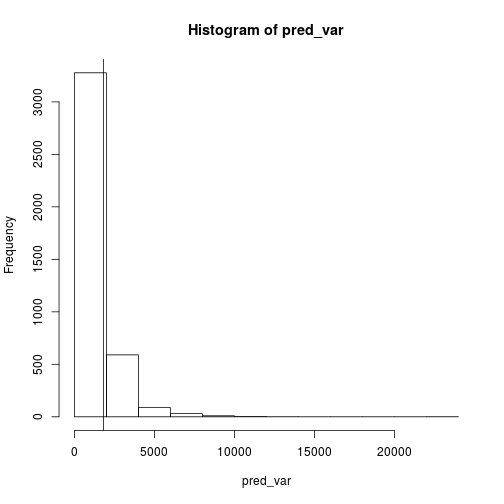
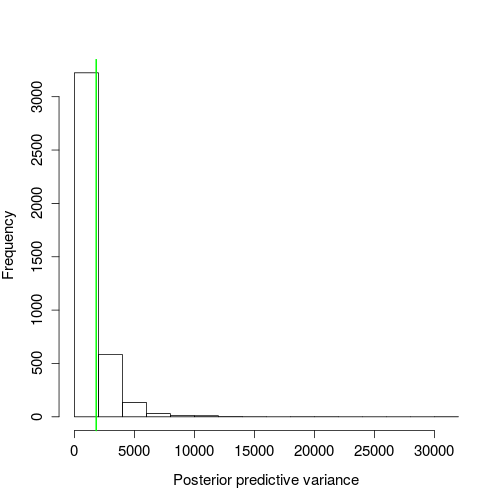
plot improvements

diff --git a/_site/Prius/index.html b/_site/Prius/index.html
@@ -95,7 +95,8 @@
   </span><span class="n">stat_bin</span><span class="p">(</span><span class="n">binwidth</span><span class="w"> </span><span class="o">=</span><span class="w"> </span><span class="m">12</span><span class="p">,</span><span class="w"> </span><span class="n">alpha</span><span class="w"> </span><span class="o">=</span><span class="w"> </span><span class="m">0.5</span><span class="p">,</span><span class="w">
                  </span><span class="n">fill</span><span class="w"> </span><span class="o">=</span><span class="w"> </span><span class="s2">"green"</span><span class="p">,</span><span class="w"> </span><span class="n">colour</span><span class="w"> </span><span class="o">=</span><span class="w"> </span><span class="s2">"black"</span><span class="p">)</span><span class="w"> </span><span class="o">+</span><span class="w">
   </span><span class="n">xlab</span><span class="p">(</span><span class="s2">"Seconds between Prius sightings (Boulder, CO)"</span><span class="p">)</span><span class="w"> </span><span class="o">+</span><span class="w">
-  </span><span class="n">theme_minimal</span><span class="p">()</span><span class="w">
+  </span><span class="n">theme_minimal</span><span class="p">()</span><span class="w"> </span><span class="o">+</span><span class="w">
+  </span><span class="n">theme</span><span class="p">(</span><span class="n">text</span><span class="w"> </span><span class="o">=</span><span class="w"> </span><span class="n">element_text</span><span class="p">(</span><span class="n">size</span><span class="o">=</span><span class="m">20</span><span class="p">))</span><span class="w">
 </span></code></pre>
 </div>
 
@@ -137,7 +138,10 @@
 <p>Here’s what this prior looks like.</p>
 
 <div class="language-r highlighter-rouge"><pre class="highlight"><code><span class="n">xseq</span><span class="w"> </span><span class="o">&lt;-</span><span class="w"> </span><span class="n">seq</span><span class="p">(</span><span class="m">0</span><span class="p">,</span><span class="w"> </span><span class="m">5</span><span class="p">,</span><span class="w"> </span><span class="n">length.out</span><span class="w"> </span><span class="o">=</span><span class="w"> </span><span class="m">100</span><span class="p">)</span><span class="w">
-</span><span class="n">plot</span><span class="p">(</span><span class="n">xseq</span><span class="p">,</span><span class="w"> </span><span class="n">dgamma</span><span class="p">(</span><span class="n">xseq</span><span class="p">,</span><span class="w"> </span><span class="n">shape</span><span class="w"> </span><span class="o">=</span><span class="w"> </span><span class="m">1</span><span class="p">,</span><span class="w"> </span><span class="n">scale</span><span class="w"> </span><span class="o">=</span><span class="w"> </span><span class="m">1</span><span class="p">),</span><span class="w"> </span><span class="n">type</span><span class="w"> </span><span class="o">=</span><span class="w"> </span><span class="s2">"l"</span><span class="p">,</span><span class="w"> </span><span class="n">lwd</span><span class="w"> </span><span class="o">=</span><span class="w"> </span><span class="m">2</span><span class="p">)</span><span class="w">
+</span><span class="n">plot</span><span class="p">(</span><span class="n">xseq</span><span class="p">,</span><span class="w"> </span><span class="n">dgamma</span><span class="p">(</span><span class="n">xseq</span><span class="p">,</span><span class="w"> </span><span class="n">shape</span><span class="w"> </span><span class="o">=</span><span class="w"> </span><span class="m">1</span><span class="p">,</span><span class="w"> </span><span class="n">scale</span><span class="w"> </span><span class="o">=</span><span class="w"> </span><span class="m">1</span><span class="p">),</span><span class="w"> </span><span class="n">type</span><span class="w"> </span><span class="o">=</span><span class="w"> </span><span class="s2">"l"</span><span class="p">,</span><span class="w"> </span><span class="n">lwd</span><span class="w"> </span><span class="o">=</span><span class="w"> </span><span class="m">2</span><span class="p">,</span><span class="w">
+     </span><span class="n">xlab</span><span class="w"> </span><span class="o">=</span><span class="w"> </span><span class="s2">"Rate parameter"</span><span class="p">,</span><span class="w">
+     </span><span class="n">ylab</span><span class="w"> </span><span class="o">=</span><span class="w"> </span><span class="s2">"Density"</span><span class="p">,</span><span class="w">
+     </span><span class="n">cex.axis</span><span class="w"> </span><span class="o">=</span><span class="w"> </span><span class="m">1.25</span><span class="p">,</span><span class="w"> </span><span class="n">cex.lab</span><span class="w"> </span><span class="o">=</span><span class="w"> </span><span class="m">1.25</span><span class="p">)</span><span class="w">
 </span></code></pre>
 </div>
 
@@ -166,10 +170,10 @@
 ## post-warmup draws per chain=1000, total post-warmup draws=4000.
 ## 
 ##        mean se_mean   sd   2.5%    25%    50%    75%  97.5% n_eff Rhat
-## beta   0.03    0.00 0.01   0.02   0.02   0.03   0.03   0.04  1636    1
-## lp__ -82.17    0.02 0.71 -84.30 -82.37 -81.90 -81.70 -81.65  1784    1
+## beta   0.03    0.00 0.01   0.02   0.02   0.03   0.03   0.04  1534    1
+## lp__ -82.17    0.02 0.76 -84.27 -82.34 -81.87 -81.70 -81.65  1669    1
 ## 
-## Samples were drawn using NUTS(diag_e) at Thu Aug 31 00:49:41 2017.
+## Samples were drawn using NUTS(diag_e) at Thu Aug 31 01:08:20 2017.
 ## For each parameter, n_eff is a crude measure of effective sample size,
 ## and Rhat is the potential scale reduction factor on split chains (at 
 ## convergence, Rhat=1).
@@ -193,7 +197,9 @@
 </span><span class="n">exp_post</span><span class="w"> </span><span class="o">%&gt;%</span><span class="w"> </span><span class="n">data.frame</span><span class="p">()</span><span class="w"> </span><span class="o">%&gt;%</span><span class="w"> 
   </span><span class="n">ggplot</span><span class="p">(</span><span class="n">aes</span><span class="p">(</span><span class="n">x</span><span class="w"> </span><span class="o">=</span><span class="w"> </span><span class="m">1</span><span class="o">/</span><span class="n">beta</span><span class="p">))</span><span class="o">+</span><span class="w">
   </span><span class="n">geom_density</span><span class="p">(</span><span class="n">fill</span><span class="w"> </span><span class="o">=</span><span class="w"> </span><span class="s2">"green"</span><span class="p">,</span><span class="w"> </span><span class="n">alpha</span><span class="w"> </span><span class="o">=</span><span class="w"> </span><span class="m">0.5</span><span class="p">)</span><span class="w"> </span><span class="o">+</span><span class="w">
-  </span><span class="n">theme_minimal</span><span class="p">()</span><span class="w">
+  </span><span class="n">theme_minimal</span><span class="p">()</span><span class="w"> </span><span class="o">+</span><span class="w">
+  </span><span class="n">xlab</span><span class="p">(</span><span class="s2">"Expected wait time"</span><span class="p">)</span><span class="w"> </span><span class="o">+</span><span class="w">
+  </span><span class="n">theme</span><span class="p">(</span><span class="n">text</span><span class="w"> </span><span class="o">=</span><span class="w"> </span><span class="n">element_text</span><span class="p">(</span><span class="n">size</span><span class="o">=</span><span class="m">20</span><span class="p">))</span><span class="w">
 </span></code></pre>
 </div>
 
@@ -207,11 +213,11 @@
 </div>
 
 <div class="highlighter-rouge"><pre class="highlight"><code>##     2.5%    97.5% 
-## 22.52135 58.07670
+## 22.34643 58.51085
 </code></pre>
 </div>
 
-<p>So there’s a 95% chance the expected wait time between Prius spottings is between 23 and 58 seconds.</p>
+<p>So there’s a 95% chance the expected wait time between Prius spottings is between 22 and 59 seconds.</p>
 
 <p>We can also easily see the probability that the expected wait time is less than, say, one minute.</p>
 
@@ -219,7 +225,7 @@
 </span></code></pre>
 </div>
 
-<div class="highlighter-rouge"><pre class="highlight"><code>## [1] 0.9815
+<div class="highlighter-rouge"><pre class="highlight"><code>## [1] 0.98075
 </code></pre>
 </div>
 
@@ -227,8 +233,10 @@
 
 <div class="language-r highlighter-rouge"><pre class="highlight"><code><span class="n">post_pred</span><span class="w"> </span><span class="o">&lt;-</span><span class="w"> </span><span class="n">exp_post</span><span class="o">$</span><span class="n">beta</span><span class="w"> </span><span class="o">%&gt;%</span><span class="w"> </span><span class="n">map</span><span class="p">(</span><span class="o">~</span><span class="n">rexp</span><span class="p">(</span><span class="n">n_obs</span><span class="p">,</span><span class="w"> </span><span class="n">rate</span><span class="w"> </span><span class="o">=</span><span class="w"> </span><span class="n">.x</span><span class="p">))</span><span class="w">
 </span><span class="n">pred_var</span><span class="w"> </span><span class="o">&lt;-</span><span class="w"> </span><span class="n">post_pred</span><span class="w"> </span><span class="o">%&gt;%</span><span class="w"> </span><span class="n">map_dbl</span><span class="p">(</span><span class="o">~</span><span class="n">var</span><span class="p">(</span><span class="n">.x</span><span class="p">))</span><span class="w">
-</span><span class="n">hist</span><span class="p">(</span><span class="n">pred_var</span><span class="p">)</span><span class="w">
-</span><span class="n">abline</span><span class="p">(</span><span class="n">v</span><span class="w"> </span><span class="o">=</span><span class="w"> </span><span class="n">var</span><span class="p">(</span><span class="n">wt_times</span><span class="o">$</span><span class="n">wait</span><span class="p">))</span><span class="w">
+</span><span class="n">hist</span><span class="p">(</span><span class="n">pred_var</span><span class="p">,</span><span class="n">main</span><span class="w"> </span><span class="o">=</span><span class="w"> </span><span class="s2">""</span><span class="p">,</span><span class="w">
+     </span><span class="n">xlab</span><span class="w"> </span><span class="o">=</span><span class="w"> </span><span class="s2">"Posterior predictive variance"</span><span class="p">,</span><span class="w">
+     </span><span class="n">cex.axis</span><span class="w"> </span><span class="o">=</span><span class="w"> </span><span class="m">1.25</span><span class="p">,</span><span class="w"> </span><span class="n">cex.lab</span><span class="w"> </span><span class="o">=</span><span class="w"> </span><span class="m">1.25</span><span class="p">)</span><span class="w">
+</span><span class="n">abline</span><span class="p">(</span><span class="n">v</span><span class="w"> </span><span class="o">=</span><span class="w"> </span><span class="n">var</span><span class="p">(</span><span class="n">wt_times</span><span class="o">$</span><span class="n">wait</span><span class="p">),</span><span class="w"> </span><span class="n">lwd</span><span class="w"> </span><span class="o">=</span><span class="w"> </span><span class="m">2</span><span class="p">,</span><span class="w"> </span><span class="n">col</span><span class="w"> </span><span class="o">=</span><span class="w"> </span><span class="s2">"green"</span><span class="p">)</span><span class="w">
 </span></code></pre>
 </div>
 
@@ -238,11 +246,11 @@
 </span></code></pre>
 </div>
 
-<div class="highlighter-rouge"><pre class="highlight"><code>## [1] 0.214
+<div class="highlighter-rouge"><pre class="highlight"><code>## [1] 0.225
 </code></pre>
 </div>
 
-<p>There’s a ~0.21% probability of simulated data having variation greater than the observed. This isn’t too far off. The nearer to 50%, the more consistent the simulated data and observed. The exponential distribution model as-is seems fairly adequate.</p>
+<p>There’s a ~0.22% probability of simulated data having variation greater than the observed. This isn’t too far off. The nearer to 50%, the more consistent the simulated data and observed. The exponential distribution model as-is seems fairly adequate.</p>
 
 <p>We can also visually assess the simulated and observed distribution shapes by constructing quantile-quantile plots. I find it a bit easier to see departures by looking at the observed quantiles versus the difference in observed and simulated quantiles:</p>
 
@@ -258,19 +266,48 @@
 </span><span class="n">pred_quants</span><span class="w"> </span><span class="o">%&gt;%</span><span class="w"> </span><span class="n">ggplot</span><span class="p">(</span><span class="n">aes</span><span class="p">(</span><span class="n">x</span><span class="w"> </span><span class="o">=</span><span class="w"> </span><span class="n">obs_quants</span><span class="p">,</span><span class="w"> </span><span class="n">y</span><span class="w"> </span><span class="o">=</span><span class="w"> </span><span class="n">quants</span><span class="w"> </span><span class="o">-</span><span class="w"> </span><span class="n">obs_quants</span><span class="p">,</span><span class="w"> </span><span class="n">group</span><span class="w"> </span><span class="o">=</span><span class="w"> </span><span class="n">draw</span><span class="p">))</span><span class="o">+</span><span class="w">
   </span><span class="n">geom_line</span><span class="p">(</span><span class="n">alpha</span><span class="w"> </span><span class="o">=</span><span class="w"> </span><span class="m">0.05</span><span class="p">,</span><span class="w"> </span><span class="n">colour</span><span class="w"> </span><span class="o">=</span><span class="w"> </span><span class="s2">"green"</span><span class="p">)</span><span class="w"> </span><span class="o">+</span><span class="w">
   </span><span class="n">geom_hline</span><span class="p">(</span><span class="n">yintercept</span><span class="w"> </span><span class="o">=</span><span class="w"> </span><span class="m">0</span><span class="p">)</span><span class="w"> </span><span class="o">+</span><span class="w">
-  </span><span class="n">theme_minimal</span><span class="p">()</span><span class="w">
+  </span><span class="n">theme_minimal</span><span class="p">()</span><span class="w"> </span><span class="o">+</span><span class="w">
+  </span><span class="n">ylab</span><span class="p">(</span><span class="s2">"Simulated - observed quantiles"</span><span class="p">)</span><span class="w"> </span><span class="o">+</span><span class="w">
+  </span><span class="n">xlab</span><span class="p">(</span><span class="s2">"Observed quantiles"</span><span class="p">)</span><span class="w">
 </span></code></pre>
 </div>
 
 <p><img src="/figure/source/2017-08-30-Prius/unnamed-chunk-13-1.png" title="plot of chunk unnamed-chunk-13" alt="plot of chunk unnamed-chunk-13" style="display: block; margin: auto;" /></p>
+
+<div class="language-r highlighter-rouge"><pre class="highlight"><code><span class="w">  </span><span class="n">theme</span><span class="p">(</span><span class="n">text</span><span class="w"> </span><span class="o">=</span><span class="w"> </span><span class="n">element_text</span><span class="p">(</span><span class="n">size</span><span class="o">=</span><span class="m">20</span><span class="p">))</span><span class="w">
+</span></code></pre>
+</div>
+
+<div class="highlighter-rouge"><pre class="highlight"><code>## List of 1
+##  $ text:List of 11
+##   ..$ family       : NULL
+##   ..$ face         : NULL
+##   ..$ colour       : NULL
+##   ..$ size         : num 20
+##   ..$ hjust        : NULL
+##   ..$ vjust        : NULL
+##   ..$ angle        : NULL
+##   ..$ lineheight   : NULL
+##   ..$ margin       : NULL
+##   ..$ debug        : NULL
+##   ..$ inherit.blank: logi FALSE
+##   ..- attr(*, "class")= chr [1:2] "element_text" "element"
+##  - attr(*, "class")= chr [1:2] "theme" "gg"
+##  - attr(*, "complete")= logi FALSE
+##  - attr(*, "validate")= logi TRUE
+</code></pre>
+</div>
 
 <p>Ideally, the shape should be relatively flat and centered on zero. The high end gets a little squirrelly, but overall this looks pretty good. The replicated draws to encapsulate zero. We confirm the exponential model isn’t too bad.</p>
 
 <p>We can also get some idea of the max wait time (conditional of the data of course).</p>
 
 <div class="language-r highlighter-rouge"><pre class="highlight"><code><span class="n">pred_max</span><span class="w"> </span><span class="o">&lt;-</span><span class="w"> </span><span class="n">post_pred</span><span class="w"> </span><span class="o">%&gt;%</span><span class="w"> </span><span class="n">map_dbl</span><span class="p">(</span><span class="o">~</span><span class="nf">max</span><span class="p">(</span><span class="n">.x</span><span class="p">))</span><span class="w">
-</span><span class="n">hist</span><span class="p">(</span><span class="n">pred_max</span><span class="p">)</span><span class="w">
-</span><span class="n">abline</span><span class="p">(</span><span class="n">v</span><span class="w"> </span><span class="o">=</span><span class="w"> </span><span class="nf">max</span><span class="p">(</span><span class="n">wt_times</span><span class="o">$</span><span class="n">wait</span><span class="p">))</span><span class="w">
+</span><span class="n">hist</span><span class="p">(</span><span class="n">pred_max</span><span class="p">,</span><span class="w"> 
+     </span><span class="n">main</span><span class="w"> </span><span class="o">=</span><span class="w"> </span><span class="s2">""</span><span class="p">,</span><span class="w">
+     </span><span class="n">xlab</span><span class="w"> </span><span class="o">=</span><span class="w"> </span><span class="s2">"Posterior predictive maximum waits"</span><span class="p">,</span><span class="w">
+     </span><span class="n">cex.axis</span><span class="w"> </span><span class="o">=</span><span class="w"> </span><span class="m">1.25</span><span class="p">,</span><span class="w"> </span><span class="n">cex.lab</span><span class="w"> </span><span class="o">=</span><span class="w"> </span><span class="m">1.25</span><span class="p">)</span><span class="w">
+</span><span class="n">abline</span><span class="p">(</span><span class="n">v</span><span class="w"> </span><span class="o">=</span><span class="w"> </span><span class="nf">max</span><span class="p">(</span><span class="n">wt_times</span><span class="o">$</span><span class="n">wait</span><span class="p">),</span><span class="w"> </span><span class="n">lwd</span><span class="w"> </span><span class="o">=</span><span class="w"> </span><span class="m">2</span><span class="p">,</span><span class="w"> </span><span class="n">col</span><span class="w"> </span><span class="o">=</span><span class="w"> </span><span class="s2">"green"</span><span class="p">)</span><span class="w">
 </span></code></pre>
 </div>
 
@@ -280,8 +317,8 @@
 </span></code></pre>
 </div>
 
-<div class="highlighter-rouge"><pre class="highlight"><code>##      2.5%     97.5% 
-## 0.8201933 4.3392904
+<div class="highlighter-rouge"><pre class="highlight"><code>##     2.5%    97.5% 
+## 0.841402 4.567670
 </code></pre>
 </div>
 
@@ -309,12 +346,15 @@ Let’s see how the approximate confidence interval for the expected wait time f
 </div>
 
 <div class="highlighter-rouge"><pre class="highlight"><code>##     2.5%    97.5% 
-## 17.76471 56.88235
+## 17.64706 57.29412
 </code></pre>
 </div>
 
-<div class="language-r highlighter-rouge"><pre class="highlight"><code><span class="n">qqplot</span><span class="p">(</span><span class="n">boots</span><span class="p">,</span><span class="m">1</span><span class="o">/</span><span class="n">exp_post</span><span class="o">$</span><span class="n">beta</span><span class="p">)</span><span class="w">
-</span><span class="n">abline</span><span class="p">(</span><span class="m">0</span><span class="p">,</span><span class="m">1</span><span class="p">)</span><span class="w">
+<div class="language-r highlighter-rouge"><pre class="highlight"><code><span class="n">qqplot</span><span class="p">(</span><span class="n">boots</span><span class="p">,</span><span class="m">1</span><span class="o">/</span><span class="n">exp_post</span><span class="o">$</span><span class="n">beta</span><span class="p">,</span><span class="w"> 
+       </span><span class="n">xlab</span><span class="w"> </span><span class="o">=</span><span class="w"> </span><span class="s2">"Bootstrap quantiles"</span><span class="p">,</span><span class="w">
+       </span><span class="n">ylab</span><span class="w"> </span><span class="o">=</span><span class="w"> </span><span class="s2">"Bayesian quantiles"</span><span class="p">,</span><span class="w"> 
+       </span><span class="n">cex.axis</span><span class="w"> </span><span class="o">=</span><span class="w"> </span><span class="m">1.25</span><span class="p">,</span><span class="w"> </span><span class="n">cex.lab</span><span class="w"> </span><span class="o">=</span><span class="w"> </span><span class="m">1.25</span><span class="p">)</span><span class="w">
+</span><span class="n">abline</span><span class="p">(</span><span class="m">0</span><span class="p">,</span><span class="m">1</span><span class="p">,</span><span class="w"> </span><span class="n">col</span><span class="w"> </span><span class="o">=</span><span class="w"> </span><span class="s2">"green"</span><span class="p">,</span><span class="w"> </span><span class="n">lwd</span><span class="w"> </span><span class="o">=</span><span class="w"> </span><span class="m">2</span><span class="w"> </span><span class="p">)</span><span class="w">
 </span></code></pre>
 </div>
 

diff --git a/_posts/2017-08-30-Prius.md b/_posts/2017-08-30-Prius.md
@@ -49,7 +49,8 @@ wt_times %>% ggplot(aes(x = wait)) +
   stat_bin(binwidth = 12, alpha = 0.5,
                  fill = "green", colour = "black") +
   xlab("Seconds between Prius sightings (Boulder, CO)") +
-  theme_minimal()
+  theme_minimal() +
+  theme(text = element_text(size=20))
 ```
 
 <img src="/figure/source/2017-08-30-Prius/unnamed-chunk-4-1.png" title="plot of chunk unnamed-chunk-4" alt="plot of chunk unnamed-chunk-4" style="display: block; margin: auto;" />
@@ -97,7 +98,10 @@ Here's what this prior looks like.
 
 ```r
 xseq <- seq(0, 5, length.out = 100)
-plot(xseq, dgamma(xseq, shape = 1, scale = 1), type = "l", lwd = 2)
+plot(xseq, dgamma(xseq, shape = 1, scale = 1), type = "l", lwd = 2,
+     xlab = "Rate parameter",
+     ylab = "Density",
+     cex.axis = 1.25, cex.lab = 1.25)
 ```
 
 <img src="/figure/source/2017-08-30-Prius/unnamed-chunk-7-1.png" title="plot of chunk unnamed-chunk-7" alt="plot of chunk unnamed-chunk-7" style="display: block; margin: auto;" />
@@ -128,10 +132,10 @@ print(stan_fit)
 ## post-warmup draws per chain=1000, total post-warmup draws=4000.
 ## 
 ##        mean se_mean   sd   2.5%    25%    50%    75%  97.5% n_eff Rhat
-## beta   0.03    0.00 0.01   0.02   0.02   0.03   0.03   0.04  1636    1
-## lp__ -82.17    0.02 0.71 -84.30 -82.37 -81.90 -81.70 -81.65  1784    1
+## beta   0.03    0.00 0.01   0.02   0.02   0.03   0.03   0.04  1534    1
+## lp__ -82.17    0.02 0.76 -84.27 -82.34 -81.87 -81.70 -81.65  1669    1
 ## 
-## Samples were drawn using NUTS(diag_e) at Thu Aug 31 00:49:41 2017.
+## Samples were drawn using NUTS(diag_e) at Thu Aug 31 01:08:20 2017.
 ## For each parameter, n_eff is a crude measure of effective sample size,
 ## and Rhat is the potential scale reduction factor on split chains (at 
 ## convergence, Rhat=1).
@@ -156,7 +160,9 @@ exp_post <- extract(stan_fit)
 exp_post %>% data.frame() %>% 
   ggplot(aes(x = 1/beta))+
   geom_density(fill = "green", alpha = 0.5) +
-  theme_minimal()
+  theme_minimal() +
+  xlab("Expected wait time") +
+  theme(text = element_text(size=20))
 ```
 
 <img src="/figure/source/2017-08-30-Prius/unnamed-chunk-9-1.png" title="plot of chunk unnamed-chunk-9" alt="plot of chunk unnamed-chunk-9" style="display: block; margin: auto;" />
@@ -173,10 +179,10 @@ cred1
 
 ```
 ##     2.5%    97.5% 
-## 22.52135 58.07670
+## 22.34643 58.51085
 ```
 
-So there's a 95% chance the expected wait time between Prius spottings is between 23 and 58 seconds.
+So there's a 95% chance the expected wait time between Prius spottings is between 22 and 59 seconds.
 
 We can also easily see the probability that the expected wait time is less than, say, one minute. 
 
@@ -186,7 +192,7 @@ mean(1/exp_post$beta < 60)
 ```
 
 ```
-## [1] 0.9815
+## [1] 0.98075
 ```
 
 Also valuable in a Bayesian framework is the ability to conduct posterior predictive checks. We can use posterior draws of the rate parameter, and generate simulated data from this exponential distribution. Perhaps the wait times have more variation than the exponential distribution allows for. We simply need to compare the observed variation to that of the simulated data sets:
@@ -195,8 +201,10 @@ Also valuable in a Bayesian framework is the ability to conduct posterior predic
 ```r
 post_pred <- exp_post$beta %>% map(~rexp(n_obs, rate = .x))
 pred_var <- post_pred %>% map_dbl(~var(.x))
-hist(pred_var)
-abline(v = var(wt_times$wait))
+hist(pred_var,main = "",
+     xlab = "Posterior predictive variance",
+     cex.axis = 1.25, cex.lab = 1.25)
+abline(v = var(wt_times$wait), lwd = 2, col = "green")
 ```
 
 <img src="/figure/source/2017-08-30-Prius/unnamed-chunk-12-1.png" title="plot of chunk unnamed-chunk-12" alt="plot of chunk unnamed-chunk-12" style="display: block; margin: auto;" />
@@ -206,10 +214,10 @@ mean(pred_var > var(wt_times$wait))
 ```
 
 ```
-## [1] 0.214
+## [1] 0.225
 ```
 
-There's a ~0.21% probability of simulated data having variation greater than the observed. This isn't too far off. The nearer to 50%, the more consistent the simulated data and observed. The exponential distribution model as-is seems fairly adequate.
+There's a ~0.22% probability of simulated data having variation greater than the observed. This isn't too far off. The nearer to 50%, the more consistent the simulated data and observed. The exponential distribution model as-is seems fairly adequate.
 
 
 We can also visually assess the simulated and observed distribution shapes by constructing quantile-quantile plots. I find it a bit easier to see departures by looking at the observed quantiles versus the difference in observed and simulated quantiles:
@@ -228,10 +236,36 @@ pred_quants <- post_pred %>% map(~{quantile(.x, prbs) }) %>%
 pred_quants %>% ggplot(aes(x = obs_quants, y = quants - obs_quants, group = draw))+
   geom_line(alpha = 0.05, colour = "green") +
   geom_hline(yintercept = 0) +
-  theme_minimal()
+  theme_minimal() +
+  ylab("Simulated - observed quantiles") +
+  xlab("Observed quantiles")
 ```
 
 <img src="/figure/source/2017-08-30-Prius/unnamed-chunk-13-1.png" title="plot of chunk unnamed-chunk-13" alt="plot of chunk unnamed-chunk-13" style="display: block; margin: auto;" />
+
+```r
+  theme(text = element_text(size=20))
+```
+
+```
+## List of 1
+##  $ text:List of 11
+##   ..$ family       : NULL
+##   ..$ face         : NULL
+##   ..$ colour       : NULL
+##   ..$ size         : num 20
+##   ..$ hjust        : NULL
+##   ..$ vjust        : NULL
+##   ..$ angle        : NULL
+##   ..$ lineheight   : NULL
+##   ..$ margin       : NULL
+##   ..$ debug        : NULL
+##   ..$ inherit.blank: logi FALSE
+##   ..- attr(*, "class")= chr [1:2] "element_text" "element"
+##  - attr(*, "class")= chr [1:2] "theme" "gg"
+##  - attr(*, "complete")= logi FALSE
+##  - attr(*, "validate")= logi TRUE
+```
 
 
 Ideally, the shape should be relatively flat and centered on zero. The high end gets a little squirrelly, but overall this looks pretty good. The replicated draws to encapsulate zero. We confirm the exponential model isn't too bad.
@@ -242,8 +276,11 @@ We can also get some idea of the max wait time (conditional of the data of cours
 
 ```r
 pred_max <- post_pred %>% map_dbl(~max(.x))
-hist(pred_max)
-abline(v = max(wt_times$wait))
+hist(pred_max, 
+     main = "",
+     xlab = "Posterior predictive maximum waits",
+     cex.axis = 1.25, cex.lab = 1.25)
+abline(v = max(wt_times$wait), lwd = 2, col = "green")
 ```
 
 <img src="/figure/source/2017-08-30-Prius/unnamed-chunk-14-1.png" title="plot of chunk unnamed-chunk-14" alt="plot of chunk unnamed-chunk-14" style="display: block; margin: auto;" />
@@ -253,8 +290,8 @@ quantile(pred_max/60, c(0.025, 0.975))
 ```
 
 ```
-##      2.5%     97.5% 
-## 0.8201933 4.3392904
+##     2.5%    97.5% 
+## 0.841402 4.567670
 ```
 
 Wow, the model predicts wait times should pretty much always be less than five minutes. That's a lot of Prii are flashing past your face!
@@ -283,12 +320,15 @@ quantile(boots, c(0.025, 0.975))
 
 ```
 ##     2.5%    97.5% 
-## 17.76471 56.88235
+## 17.64706 57.29412
 ```
 
 ```r
-qqplot(boots,1/exp_post$beta)
-abline(0,1)
+qqplot(boots,1/exp_post$beta, 
+       xlab = "Bootstrap quantiles",
+       ylab = "Bayesian quantiles", 
+       cex.axis = 1.25, cex.lab = 1.25)
+abline(0,1, col = "green", lwd = 2 )
 ```
 
 <img src="/figure/source/2017-08-30-Prius/unnamed-chunk-15-2.png" title="plot of chunk unnamed-chunk-15" alt="plot of chunk unnamed-chunk-15" style="display: block; margin: auto;" />
